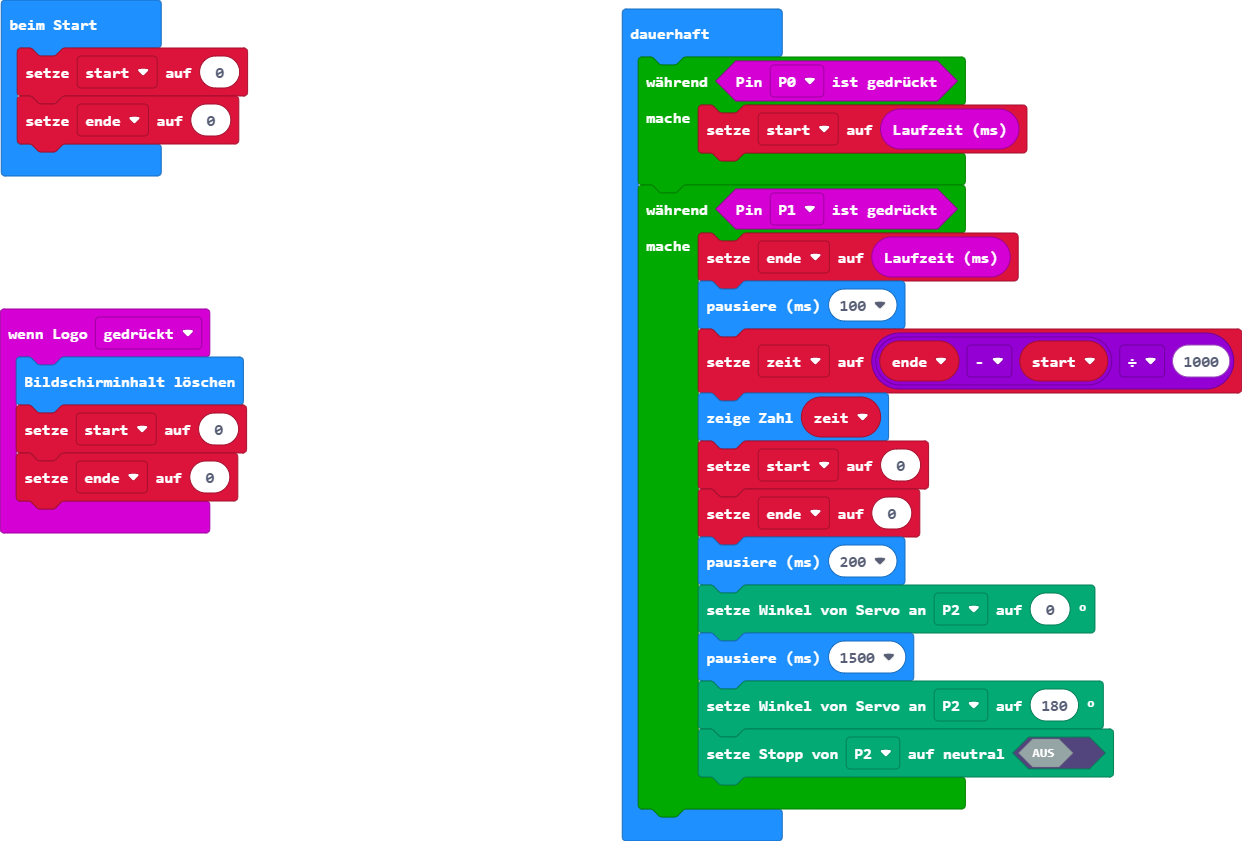
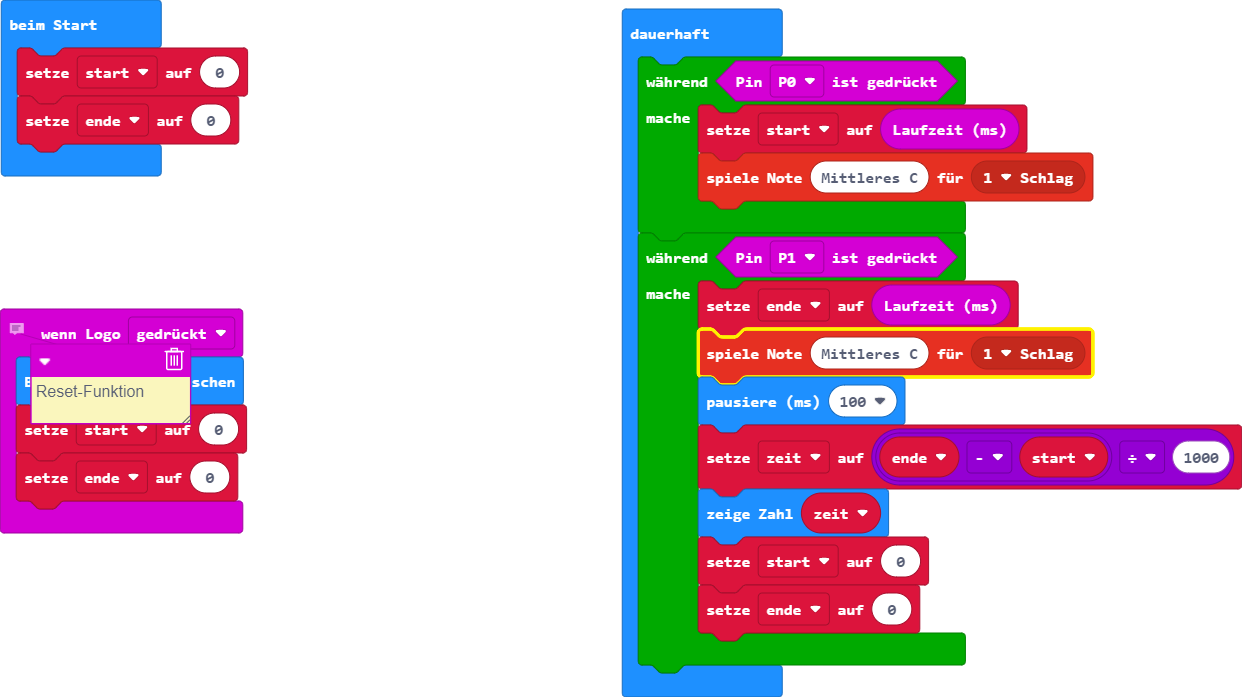
Aktualisiere main.blocks, main.ts

diff --git a/main.ts b/main.ts
@@ -11,9 +11,11 @@ ende = 0
 basic.forever(function () {
     while (input.pinIsPressed(TouchPin.P0)) {
         start = input.runningTime()
+        music.playTone(262, music.beat(BeatFraction.Whole))
     }
     while (input.pinIsPressed(TouchPin.P1)) {
         ende = input.runningTime()
+        music.playTone(262, music.beat(BeatFraction.Whole))
         basic.pause(100)
         zeit = (ende - start) / 1000
         basic.showNumber(zeit)
